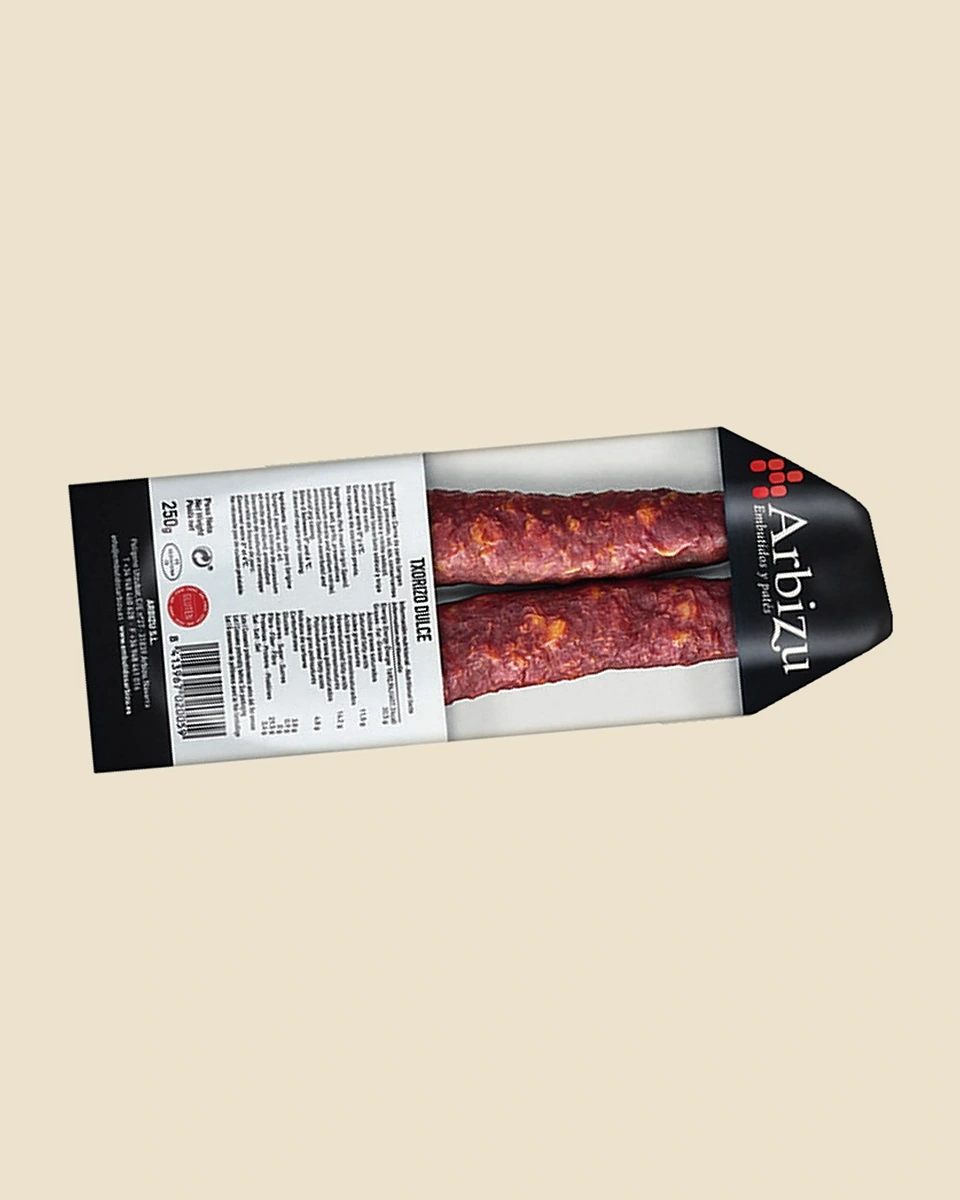
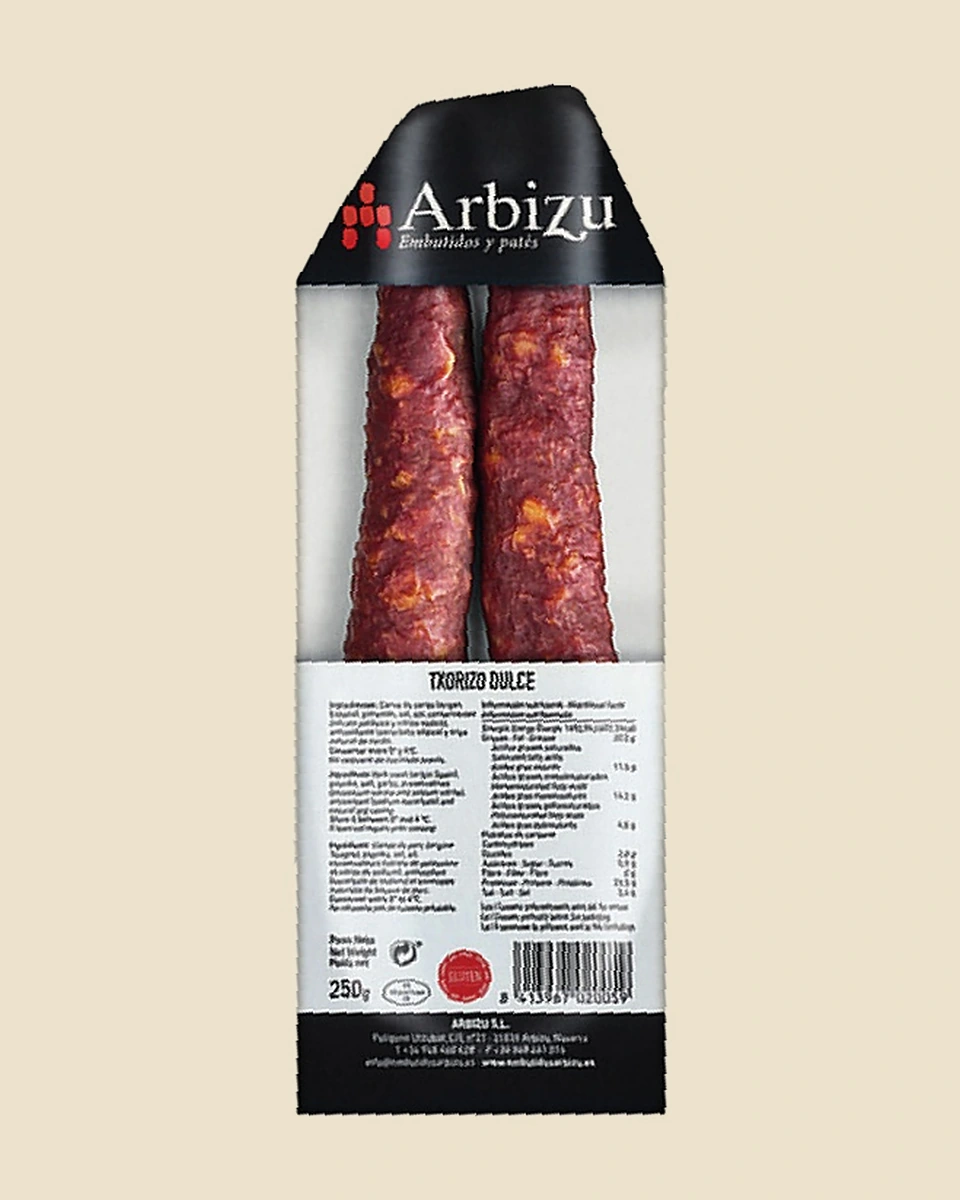
Fotos de los embutidos de Arbizu en vertical y enderezadas
Claude-Session: https://claude.ai/code/session_01RbAzZZS2HQ65ww3ECzRDVv

diff --git a/scripts/importar-fotos.py b/scripts/importar-fotos.py
@@ -298,6 +298,28 @@ def tile(src, dst, size=(960, 1200), margin=0.06, trim=False, tint=False):
     canvas.save(dst, "WEBP", quality=93, method=6)
 
 
+# Embutidos de Arbizu cuya foto viene tumbada y torcida: se enderezan y se ponen de pie (texto hacia arriba).
+VERTICAL = {
+    "arbizu-chorizo-individual-oreado", "arbizu-chorizo-sarta-dulce", "arbizu-chorizo-sarta-picante",
+    "arbizu-txistorra-individual", "arbizu-txistorra-individual-eco",
+}
+
+
+def stand_up(src):
+    """Endereza el paquete (ángulo que da el recuadro más pequeño) y lo gira 90° a la izquierda."""
+    from PIL import ImageChops
+    im = Image.open(src).convert("RGB")
+
+    def area(a):
+        r = im.rotate(a, expand=True, fillcolor="white")
+        d = ImageChops.difference(r, Image.new("RGB", r.size, "white")).convert("L").point(lambda v: 255 if v > 20 else 0)
+        b = d.getbbox()
+        return (b[2] - b[0]) * (b[3] - b[1])
+
+    best = min(range(-30, 31), key=lambda a: area(a / 2)) / 2
+    return im.rotate(best, expand=True, fillcolor="white").rotate(90, expand=True, fillcolor="white")
+
+
 OUT_P.mkdir(parents=True, exist_ok=True)
 OUT_M.mkdir(parents=True, exist_ok=True)
 
@@ -317,6 +339,11 @@ for cat, prod, name, price in ([] if ONLY_BRANDS else rows):
     if not src:
         missing.append(f"{prod} | {name}" + (f"  (regla '{key}' sin archivo)" if key else ""))
         continue
+    if slug in VERTICAL:
+        import tempfile
+        tmp = Path(tempfile.mkdtemp()) / "vertical.png"
+        stand_up(src).save(tmp)
+        src = tmp
     tile(src, OUT_P / f"{slug}.webp", margin=0.06, trim=True, tint=True)
     mapping[slug] = f"/images/productos/{slug}.webp"
 
